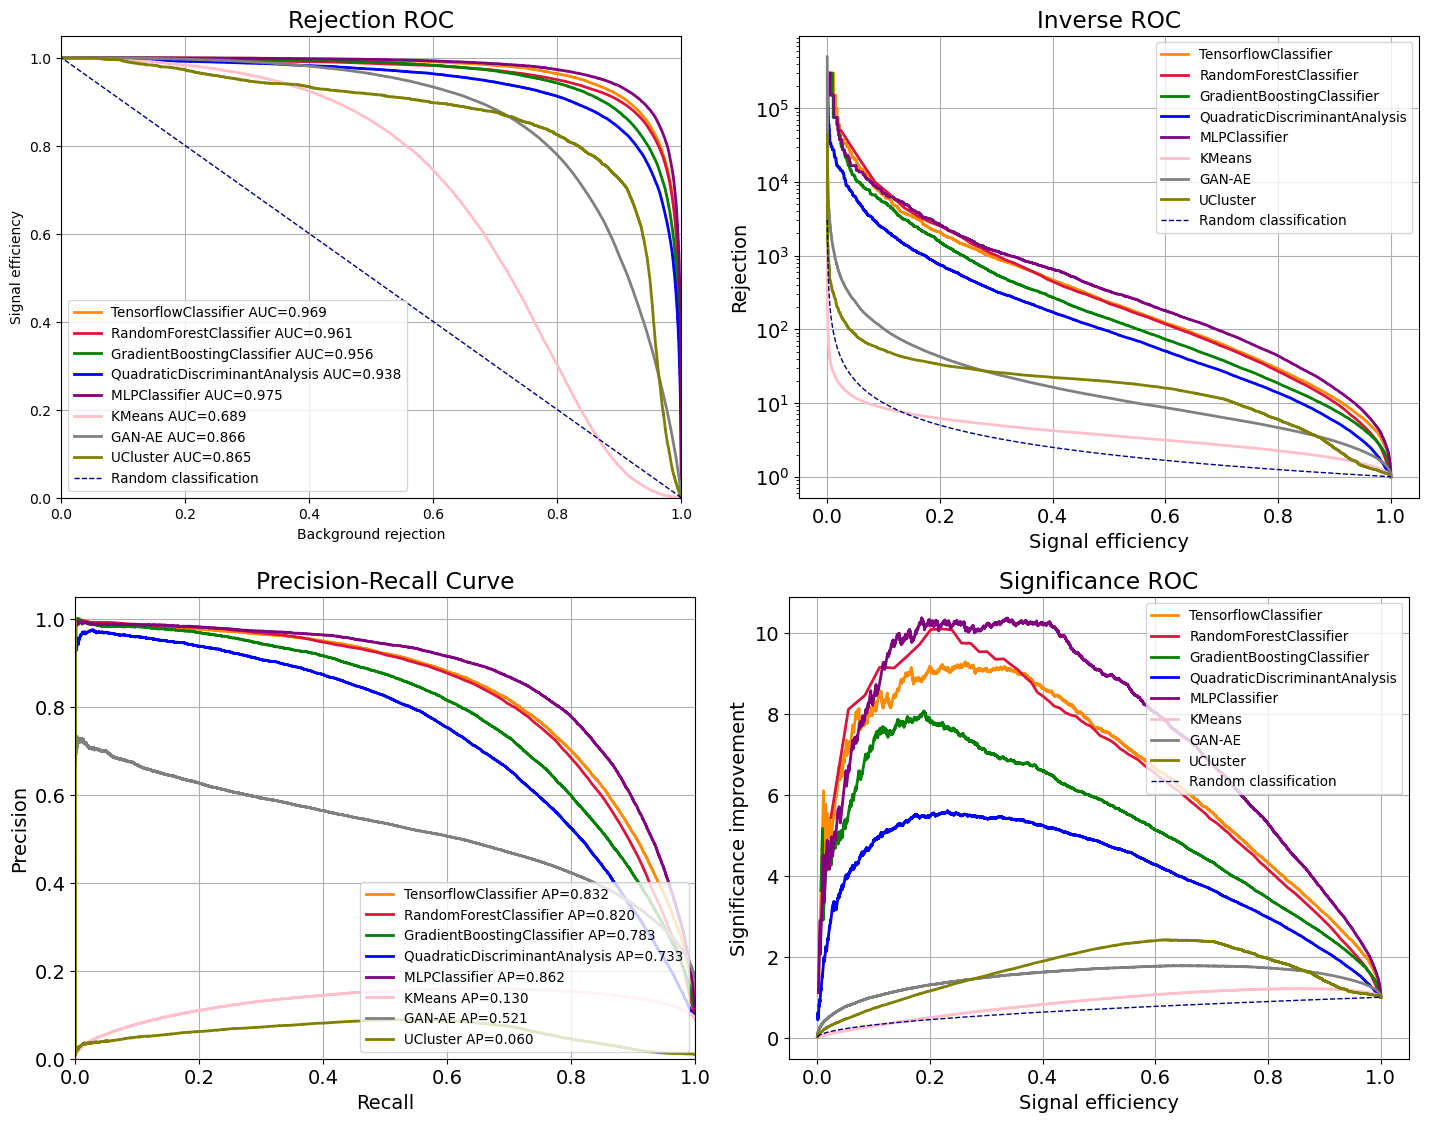
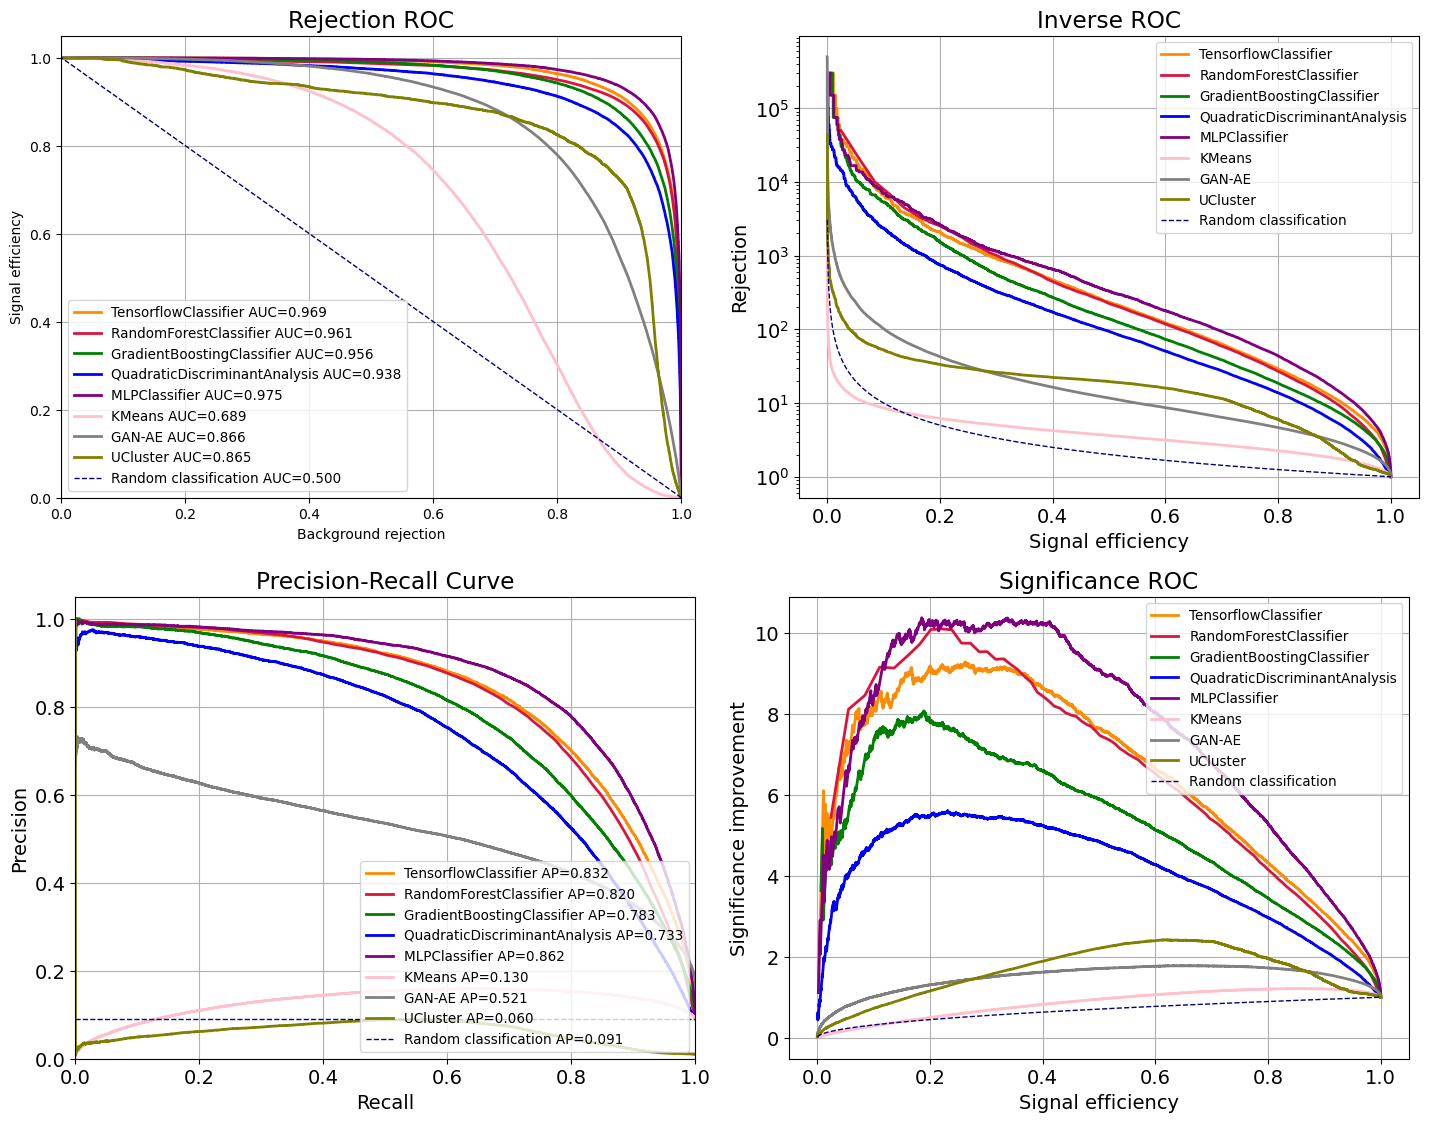
metrictools PR curve fix and tests for module

Changed region(s): [[0.25, 0.7487, 0.4688, 0.9358], [0.1875, 0.4055, 0.2188, 0.4367]]

diff --git a/benchtools/src/metrictools.py b/benchtools/src/metrictools.py
@@ -421,7 +421,7 @@ def precision_recall_plot(names, labels, probs, colors=LIST_COLORS):
 
         # Calculating the ratio of signal
         _, counts = np.unique(labels, return_counts=True)
-        ratio = counts[1]/counts[0]
+        ratio = counts[1]/(counts[0]+counts[1])
         # Plotting the line for a random classifier
         plt.axhline(y=ratio, color='navy', lw=1, linestyle='--', label='Random classification AP={:.3f}'.format(ratio))
 
@@ -436,7 +436,7 @@ def precision_recall_plot(names, labels, probs, colors=LIST_COLORS):
                 
                 # Calculating the ratio of signal
                 _, counts = np.unique(labels[1], return_counts=True)
-                ratio = counts[1]/counts[0]
+                ratio = counts[1]/(counts[0]+counts[1])
                 # Plotting the line for a random classifier
                 plt.axhline(y=ratio, color='navy', lw=1, linestyle='--', label='Random classification AP={:.3f}'.format(ratio))
 
@@ -448,7 +448,7 @@ def precision_recall_plot(names, labels, probs, colors=LIST_COLORS):
 
             # Calculating the ratio of signal
             _, counts = np.unique(labels, return_counts=True)
-            ratio = counts[1]/counts[0]
+            ratio = counts[1]/(counts[0]+counts[1])
             # Plotting the line for a random classifier
             plt.axhline(y=ratio, color='navy', lw=1, linestyle='--', label='Random classification AP={:.3f}'.format(ratio))
     

diff --git a/tests/test_metrictools.py b/tests/test_metrictools.py
@@ -52,7 +52,7 @@ def test_performance_metrics():
 def test_compare_metrics():
     # importing classifier
     clf = pd.read_csv('data/test_metrics.csv')
-    df = compare_metrics(['clf'], [clf['score']], [clf['pred']], [clf['label']])
+    df = compare_metrics(['clf'], [clf['pred']], [clf['label']])
     # asserting each value
     assert df.loc['clf','Balanced accuracy'] == 0.7949953678193595
     assert df.loc['clf','Precision'] == 0.3962095800668954
@@ -60,7 +60,7 @@ def test_compare_metrics():
     assert df.loc['clf','Recall'] == 0.8430767356387191
 
     # checking if the classifier just guess zeros
-    df = compare_metrics(['clf'], [clf['score']], [np.zeros(len(clf['label']))], [clf['label']])
+    df = compare_metrics(['clf'], [np.zeros(len(clf['label']))], [clf['label']])
     # asserting each value
     assert df.loc['clf','Balanced accuracy'] == 0.5
     assert df.loc['clf','Precision'] == 0.0
@@ -68,7 +68,7 @@ def test_compare_metrics():
     assert df.loc['clf','Recall'] == 0.0
 
     # checking a perfect classification
-    df = compare_metrics(['clf'], [clf['score']], [clf['label']], [clf['label']])
+    df = compare_metrics(['clf'], [clf['label']], [clf['label']])
     # asserting each value
     assert df.loc['clf','Balanced accuracy'] == 1.0
     assert df.loc['clf','Precision'] == 1.0

diff --git a/README.md b/README.md
@@ -127,6 +127,7 @@ The output are .png files comparing the models with numeric and bidimensional me
 | KMeans                        |            0.7934   |   0.2551    | 0.8288   |  0.3901    |
 | GAN-AE                        |            0.7950   |   0.3962    | 0.8431   |  0.5391    |
 | UCluster                      |            0.8073   |   0.0308    | 0.8921   |  0.0595    |
+| Random classification         |            0.4991   |   0.0906    | 0.1534   |  0.4984    |
 
 ### Numeric metrics
 <img src="figures/comp-metricas-num-RnD.png"/>
@@ -136,7 +137,7 @@ The output are .png files comparing the models with numeric and bidimensional me
 
 This result was obtained using the R&D dataset, running the following command:
 ```
-benchtools_run --ext_clf ext-RnD.txt --RD --all_data --training
+benchtools_run --ext_clf data/ext-RnD.txt --RD --all_data --training
 ```
 # Development and testing <a name="testing"></a>
 
